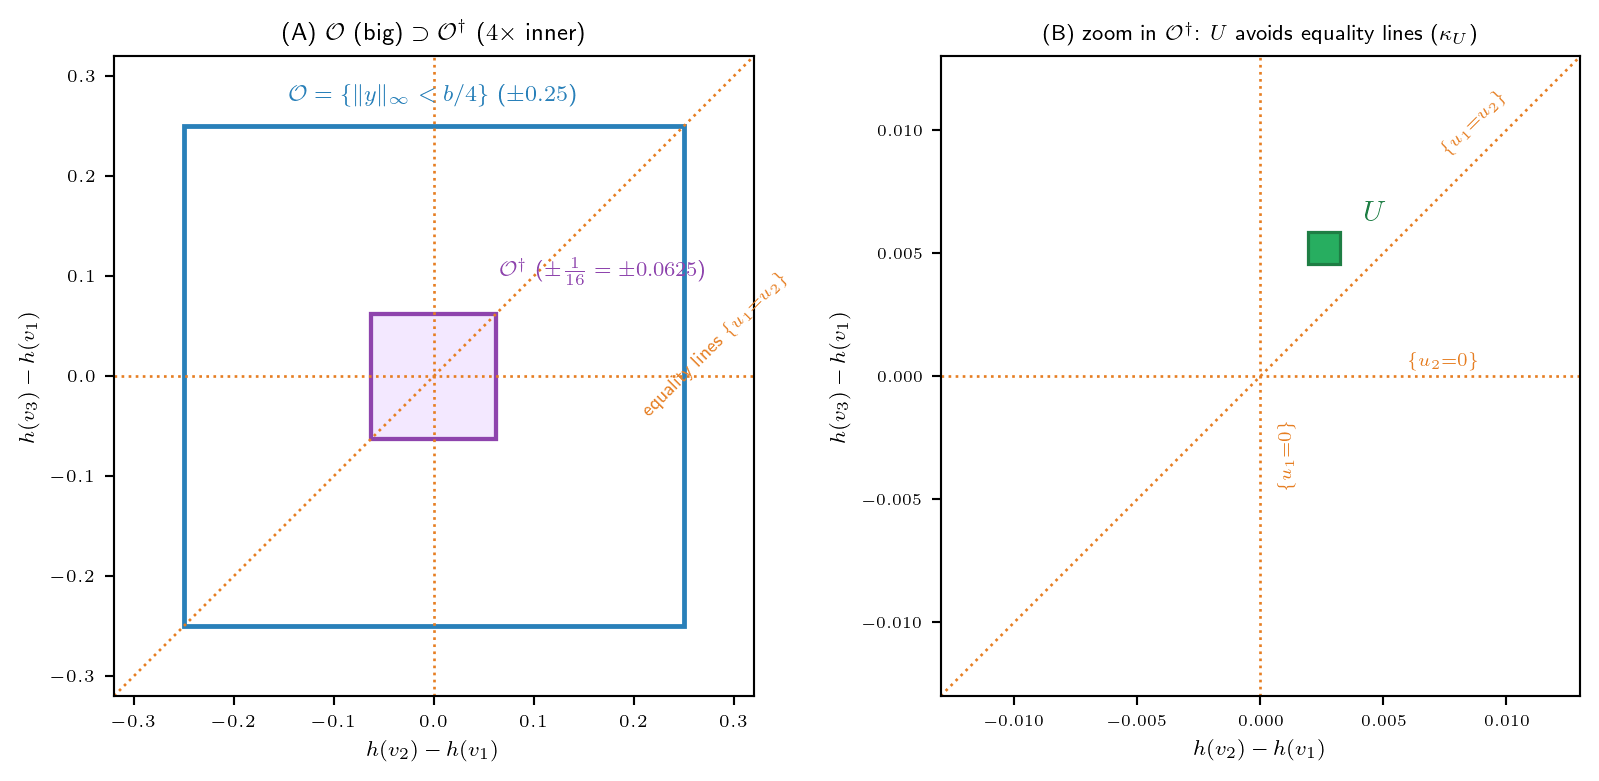
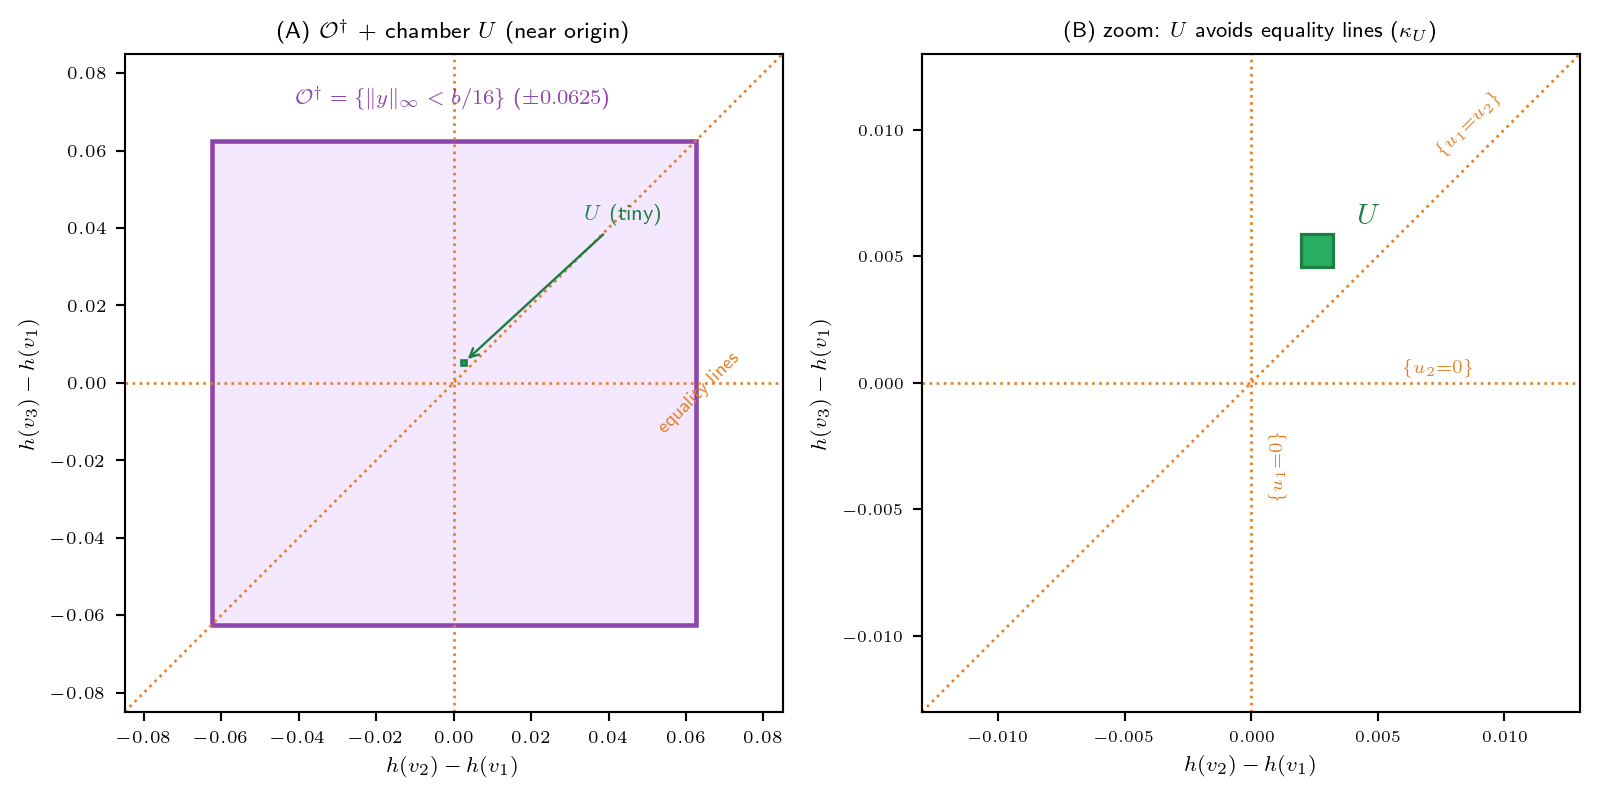
post(update): petite/K3 — §2③ 그림에서 O 제거, O†·등호면·U만 (chamber 공간 집중)
O의 reach 의미(s-기준)와 chamber 의미(원점) 혼동 방지 — 이 그림은 도착 공간(원점 기준).

diff --git a/docs/Posts/260605_c4e5ad.html b/docs/Posts/260605_c4e5ad.html
@@ -235,7 +235,7 @@ window.Quarto = {
 <p><strong>(1) 높이차 <span class="math inline">\(\Delta_1\mathbf{h}\)</span></strong> — <span class="math inline">\(v_1\)</span>을 기준으로 뺀 anchored 높이차: <span class="math display">\[\Delta_1\mathbf{h}(s) = \bigl(h(v_2) - h(v_1),\ h(v_3) - h(v_1)\bigr) = (7-5,\ 3-5) = (2, -2).\]</span></p>
 <p><strong>(2) 현재 노드 <span class="math inline">\(X\)</span></strong> — walker가 지금 있는 노드 (예: <span class="math inline">\(v_1\)</span>).</p>
 <p>→ 우리 예제의 상태는 <span class="math inline">\(s = \bigl((2,-2),\ v_1\bigr)\)</span>이다. (<span class="math inline">\(\Delta_1\mathbf{h}\)</span>가 절대높이 <span class="math inline">\(5,7,3\)</span>을 안 기억해도 되는 이유: 눈은 모든 노드에 똑같이 와 닿는 게 아니라 <strong>높이차</strong>만 동역학에 들어오기 때문. 높이를 통째로 <span class="math inline">\(+10\)</span> 해도 같은 상태.)</p>
-<div id="b4154f56" class="cell" data-execution_count="1">
+<div id="b6cd07e5" class="cell" data-execution_count="1">
 <div class="cell-output cell-output-display">
 <div>
 <figure class="figure">
@@ -254,7 +254,7 @@ window.Quarto = {
 </blockquote>
 <p><strong>먼저 <span class="math inline">\(s\)</span>가 어디의 원소인지</strong> 못박자. 라운드 스켈레톤의 상태공간은 <span class="math display">\[\bar{\mathcal{X}} \;=\; \mathbb{R}^{n-1} \times V \;=\; \mathbb{R}^2 \times \{v_1, v_2, v_3\},\]</span> 즉 상태는 <span class="math inline">\(s = (\Delta_1\mathbf{h},\ X)\)</span> — <strong>(높이차 벡터, 현재 노드)</strong> 쌍이다. 우리 예제에선 <span class="math display">\[s = \bigl((2,-2),\ v_1\bigr) \in \bar{\mathcal{X}}.\]</span></p>
 <p>후보 small set은 <strong>높이차 범위가 <span class="math inline">\(M_0\)</span> 이하인 상태들</strong>. 좌표 약자로 <span class="math inline">\(u_1 := h(v_2)-h(v_1)\)</span>, <span class="math inline">\(u_2 := h(v_3)-h(v_1)\)</span> (<span class="math inline">\(\Delta_1\mathbf{h}=(u_1,u_2)\)</span>)라 두면, 범위 <span class="math inline">\(M(s)\)</span>는 anchored 높이 <span class="math inline">\(\{0, u_1, u_2\}\)</span>의 최대−최소 = 최대 pairwise 거리: <span class="math display">\[M(s) = \max\bigl(|u_1|,\ |u_2|,\ |u_1 - u_2|\bigr).\]</span> 따라서 <strong>closed form</strong>으로 (<span class="math inline">\(M\)</span>은 <span class="math inline">\(\Delta_1\mathbf{h}\)</span> 좌표에만 의존, 노드 <span class="math inline">\(X\)</span>는 자유): <span class="math display">\[C_0 = \bigl\{\, (u_1,u_2) : |u_1| \leq M_0,\ |u_2| \leq M_0,\ |u_1 - u_2| \leq M_0 \,\bigr\} \times V\]</span> — 세 띠의 교집합인 <strong>육각형</strong> <span class="math inline">\(\times V\)</span>. 이 예제 <span class="math inline">\(M_0 := 4\)</span>. 우리 <span class="math inline">\(s=(2,-2)\)</span>: <span class="math inline">\((|u_1|, |u_2|, |u_1-u_2|) = (2, 2, 4)\)</span> 모두 <span class="math inline">\(\leq 4\)</span> → <span class="math inline">\(s \in C_0\)</span> (마지막이 <span class="math inline">\(=4\)</span>라 육각형 <strong>경계</strong> 위).</p>
-<div id="44a1264e" class="cell" data-execution_count="2">
+<div id="c3bd18d9" class="cell" data-execution_count="2">
 <div class="cell-output cell-output-display">
 <div>
 <figure class="figure">
@@ -288,7 +288,7 @@ window.Quarto = {
 </ul>
 <p>위 밀도 하한의 유도 (왜 <span class="math inline">\(\mathcal{O}\)</span> 위에서만 <span class="math inline">\(f \geq \tfrac12\)</span>인가): 증분 밀도 <span class="math inline">\(f\)</span>는 <span class="math inline">\(b^{\sharp}_1\)</span>을 적분해 없앤 것인데, 모든 <span class="math inline">\(|b^{\sharp}_i - b^{\sharp}_1| &lt; b/4\)</span>일 때 적분 구간이 길이 <span class="math inline">\(\geq b/2\)</span>를 품어 <span class="math inline">\(f \geq b^{1-n}/2\)</span>로 떨어진다 (<span class="math inline">\(b{=}1, n{=}3\)</span>이라 <span class="math inline">\(\tfrac12\)</span>). 그 조건이 정확히 <span class="math inline">\(\widetilde{\mathbf{b}}^{\sharp} \in \mathcal{O}\)</span>.</p>
 <p><strong>주의 — <span class="math inline">\(\mathcal{O}\)</span>는 “한 블록으로 갈 수 있는 전부”가 아니다.</strong> 증분 <span class="math inline">\(\widetilde{\mathbf{b}}^{\sharp} = (b^{\sharp}_2 - b^{\sharp}_1,\ b^{\sharp}_3 - b^{\sharp}_1)\)</span>은 각 <span class="math inline">\(b^{\sharp}_i \in [0,b]\)</span>라, 실제 <strong>도달 영역</strong>은 박스가 아니라 <strong>육각형</strong> <span class="math display">\[\{\, (x,y) : |x| \leq b,\ |y| \leq b,\ |x - y| \leq b \,\}\]</span> 이다 (증분도 높이차 벡터라 range <span class="math inline">\(\leq b=1\)</span> — <span class="math inline">\(C_0\)</span>와 똑같은 모양!). 예컨대 모서리 <span class="math inline">\((b, -b)\)</span>는 <span class="math inline">\(b^{\sharp}_1\)</span>을 공유하는 제약 때문에 도달 불가(<span class="math inline">\(|x-y|=2b &gt; b\)</span>). 박스 <span class="math inline">\(\mathcal{O}\)</span>(한 좌표 <span class="math inline">\(\pm b/4\)</span>)는 그 육각형 <strong>안쪽의 밀도 <span class="math inline">\(\geq \tfrac12\)</span> 보장 부분</strong>일 뿐이다. 증명이 박스만 쓰는 이유: 깔끔한 밀도 하한 <span class="math inline">\(b^{1-n}/2\)</span>가 거기서만 나오기 때문 (육각형 안·박스 밖은 밀도가 양수지만 그 하한은 안 나옴). 아래 그림은 (A) <strong>큰 <span class="math inline">\(C_0\)</span> 안에 한 블록 도달역(작은 육각형)이 작게 들어있는 모습</strong> — 둘 다 “range ≤ 상수” 꼴이라 닮았지만 <span class="math inline">\(C_0\)</span>는 원점 중심·크기 <span class="math inline">\(M_0{=}4\)</span>, 도달역은 <span class="math inline">\(s{=}(2,-2)\)</span> 중심·크기 <span class="math inline">\(b{=}1\)</span>로 별개 — 과 (B) 그 도달역 줌인(도달 육각형 <span class="math inline">\(\supset\)</span> 밀도박스 <span class="math inline">\(\mathcal{O}\)</span>)을 보여준다.</p>
-<div id="1f6c1e62" class="cell" data-execution_count="3">
+<div id="0d84f58c" class="cell" data-execution_count="3">
 <div class="cell-output cell-output-display">
 <div>
 <figure class="figure">
@@ -299,7 +299,7 @@ window.Quarto = {
 </div>
 <p>한 블록은 <span class="math inline">\(\Delta_1\mathbf{h}\)</span>를 육각형(range <span class="math inline">\(\leq b\)</span>)만큼 밀 수 있고, 그중 <strong>밀도 하한 <span class="math inline">\(f \geq \tfrac12\)</span>을 갖는</strong> 부분이 박스 <span class="math inline">\(\mathcal{O}\)</span>(한 좌표 <span class="math inline">\(\pm\tfrac14\)</span>)다. (<span class="math inline">\(L\)</span>블록 누적 버전은 ② 참조.)</p>
 <p><strong>② <span class="math inline">\(L\cdot\mathcal{O}\)</span> — <span class="math inline">\(L\)</span>블록이 도달하는 영역 (Minkowski 합).</strong> <span class="math display">\[L := \Bigl\lceil \tfrac{16M_0}{b} + 1 \Bigr\rceil.\]</span> <span class="math inline">\(M_0 = 4\)</span>, <span class="math inline">\(b = 1\)</span>이라 <span class="math inline">\(L = \lceil 16\cdot 4 + 1 \rceil = 65\)</span>. 그러면 <span class="math inline">\(L\cdot\mathcal{O} = (-\tfrac{L}{4}, \tfrac{L}{4})^2 = (-16.25, 16.25)^2\)</span> — <strong>출발 <span class="math inline">\(\Delta_1\mathbf{h}(s)=(2,-2)\)</span>를 원점 근처로 끌어내릴 만큼 넉넉</strong>하다. (falls가 채울 변위 <span class="math inline">\(y = u - \Delta_1\mathbf{h}(s) - \mathbf{r} \approx (0,0)-(2,-2) = (-2,2)\)</span>가 <span class="math inline">\(\pm 16\)</span> 안에 푹 들어옴.)</p>
-<div id="33cb7f00" class="cell" data-execution_count="4">
+<div id="2064c0c4" class="cell" data-execution_count="4">
 <div class="cell-output cell-output-display">
 <div>
 <figure class="figure">
@@ -315,17 +315,17 @@ window.Quarto = {
 <li><strong>등호 초평면 회피:</strong> 등호면 <span class="math inline">\(\{\widetilde{u}_i = \widetilde{u}_j\}\)</span>가 <span class="math inline">\(\mathcal{O}\)</span> 안을 지나니, <span class="math inline">\(U\)</span>를 <span class="math inline">\(\mathcal{O}^\dagger\)</span> 안에서 그 초평면들과 <span class="math inline">\(\kappa_U\)</span> 떨어뜨려 잡아 퇴화 비교를 robust하게 만든다 (아래 ④, 조건 <span class="math inline">\((\ast)\)</span>).</li>
 <li><strong><span class="math inline">\(L\)</span>-포함 보장:</strong> <span class="math inline">\(U\)</span>가 작은 <span class="math inline">\(\mathcal{O}^\dagger\)</span>에 있어야 목표 집합 <span class="math inline">\(K_U^\varrho = \{u - \Delta_1\mathbf{h}(s) - r\}\)</span>가 <span class="math inline">\(\operatorname{int}(L\cdot\mathcal{O})\)</span> 안에 컴팩트하게 든다 (<span class="math inline">\(K_U^\varrho \Subset \operatorname{int}(L\cdot\mathcal{O})\)</span>, <span class="math inline">\(L \geq 16M_0/b+1\)</span>로 가능).</li>
 </ol>
-<div id="6eb2feb8" class="cell" data-execution_count="5">
+<div id="ae601921" class="cell" data-execution_count="5">
 <div class="cell-output cell-output-display">
 <div>
 <figure class="figure">
-<p><img src="260605_유진_HST_petite_smallset_K3_files/figure-html/cell-6-output-1.png" width="800" height="391" class="figure-img"></p>
+<p><img src="260605_유진_HST_petite_smallset_K3_files/figure-html/cell-6-output-1.png" width="800" height="399" class="figure-img"></p>
 </figure>
 </div>
 </div>
 </div>
 <ol type="A">
-<li><span class="math inline">\(\mathcal{O}\)</span>(파랑, <span class="math inline">\(\pm0.25\)</span>)와 그 <span class="math inline">\(\tfrac14\)</span> 크기인 <span class="math inline">\(\mathcal{O}^\dagger\)</span>(보라, <span class="math inline">\(\pm0.0625\)</span>) — 등호면 셋이 둘 다 관통한다. (B) <span class="math inline">\(\mathcal{O}^\dagger\)</span> 안을 더 줌인하면, chamber <span class="math inline">\(U\)</span>(초록)가 그 등호면들에서 <span class="math inline">\(\kappa_U\)</span> 떨어져 앉아 있다.</li>
+<li><span class="math inline">\(\mathcal{O}^\dagger\)</span>(보라, <span class="math inline">\(\pm0.0625\)</span>)는 원점 근처 박스이고 등호면 셋이 <strong>원점을 관통</strong>한다 — chamber <span class="math inline">\(U\)</span>(초록)가 그 안에 작게 앉는다. (B) 더 줌인하면 <span class="math inline">\(U\)</span>가 등호면들에서 <span class="math inline">\(\kappa_U\)</span> 떨어져 있다. <em>이 그림은 <strong>도착(chamber) 공간</strong>이라 원점 기준이다 (한 블록 reach의 <span class="math inline">\(\mathcal{O}\)</span>는 §2①의 <span class="math inline">\(s\)</span>-기준 그림 참조).</em></li>
 </ol>
 <p><strong>④ <span class="math inline">\(U\)</span> — 실제 목표 chamber.</strong> <span class="math inline">\(\mathcal{O}^\dagger\)</span> 안의 작은 <span class="math inline">\(\ell^\infty\)</span>-공인데, <strong>final-equality 초평면을 피해서</strong> 잡는다. anchored 전체높이 <span class="math inline">\(\widetilde{u} = (0, u_1, u_2)\)</span> (여기 <span class="math inline">\(u=(u_1,u_2)\in U\)</span>)의 세 등호면 <span class="math display">\[\{u_1 = 0\},\quad \{u_2 = 0\},\quad \{u_1 = u_2\}\]</span> 위에선 fall이 목표를 robust하게 못 맞힌다 (퇴화 비교). 그래서 이 셋에서 떨어진 곳에 중심을 둔다: <span class="math display">\[\text{중심} = \tfrac{b}{128n}(1, 2) = \bigl(\tfrac{1}{384}, \tfrac{1}{192}\bigr) \approx (0.0026,\ 0.0052), \qquad \text{반경 } r_U = \tfrac{1}{1536}.\]</span> 이 <span class="math inline">\(U\)</span>는 세 초평면에서 최소 <span class="math inline">\(\kappa_U = \tfrac{1}{768} \approx 0.0013\)</span> 떨어져 있다 (<span class="math inline">\((\ast)\)</span> 조건). 최종 기준측도가 바로 이 <span class="math inline">\(U\)</span> 위의 균등측도: <span class="math inline">\(\nu = \mathrm{Unif}(U)\otimes\delta_{v_3}\)</span>.</p>
 <p><strong>Remark — <span class="math inline">\(U\)</span>가 원점일 이유는 없다 (원점은 편의·안전 선택).</strong> <span class="math inline">\(U\)</span>를 원점 근처 <span class="math inline">\(\mathcal{O}^\dagger\)</span>에 둔 게 <em>필연</em>처럼 보이지만, 실제로 <span class="math inline">\(U\)</span>에 걸리는 제약은 둘뿐이고 둘 다 “<span class="math inline">\(U=\)</span> 원점”을 요구하지 않는다.</p>
@@ -340,7 +340,7 @@ window.Quarto = {
 <li><strong>위치에 의미 있는 단 하나:</strong> chamber 중심 <span class="math inline">\(\tfrac{b}{128n}(1,2,\ldots,n-1)\)</span>은 높이가 살짝 <strong>증가</strong>(<span class="math inline">\(v_n\)</span> 최고)하게 잡혔다 — 끝노드 <span class="math inline">\(v_n\)</span> pinning(<span class="math inline">\(\delta_{v_n}\)</span>) 때문. 즉 “원점 자체”가 아니라 “원점에서 <span class="math inline">\(v_n\)</span> 쪽으로 미세하게 기운 작은 공”이고, 이건 pinning용이지 원점이라서가 아니다.</li>
 </ul>
 <p><strong>요컨대</strong> <span class="math inline">\(U\)</span>의 위치는 “<span class="math inline">\(\bigcap_{s\in C_0}(s+L\cdot\mathcal{O})\)</span> (원점 중심 큰 영역) 안 <span class="math inline">\(+\)</span> ties 밖”이면 <strong>자유</strong>다. 원점 근처에 둔 건 대칭 중심의 최대-여유 <em>편의 선택</em>(<span class="math inline">\(+\,v_n\)</span> pinning용 미세 기울기)이지 필연이 아니다.</p>
-<div id="8eb5ffba" class="cell" data-execution_count="6">
+<div id="49c3e2df" class="cell" data-execution_count="6">
 <div class="cell-output cell-output-display">
 <div>
 <figure class="figure">
